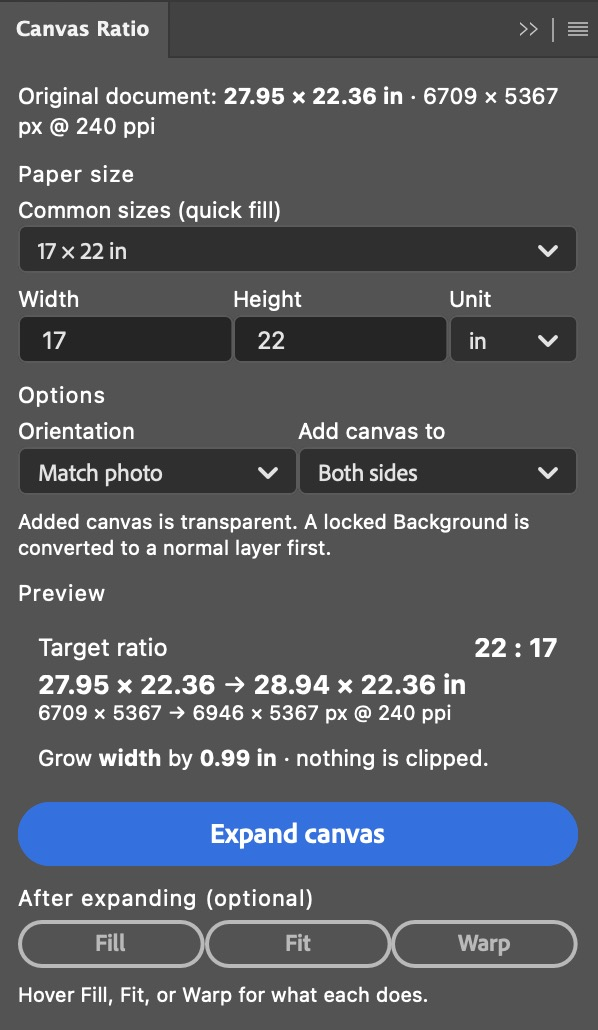
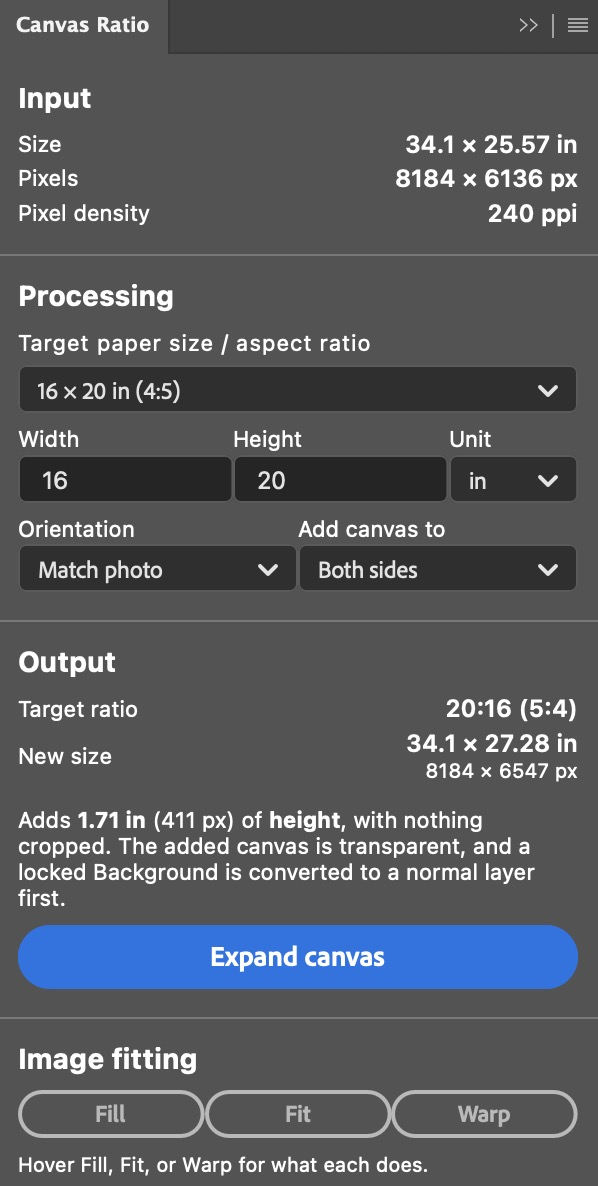
Release 1.0.0: new screenshot, version bump, changelog

diff --git a/CHANGELOG.md b/CHANGELOG.md
@@ -4,6 +4,29 @@ All notable changes to this project are documented here. The format is based on
 [Keep a Changelog](https://keepachangelog.com/en/1.1.0/), and this project
 adheres to [Semantic Versioning](https://semver.org/spec/v2.0.0.html).
 
+## [1.0.0] - 2026-06-14
+
+### Added
+- **Aspect ratio in every preset**, e.g. `16 × 20 in (4:5)`; the A-series
+  shows a `1:x.xx` decimal. The dropdown also renders all sizes in the
+  currently selected unit and rebuilds when the unit changes.
+- **Three-stage layout** with larger, full-width section dividers: **Input**
+  (document size, pixels, pixel density), **Processing** (target size,
+  orientation, anchor), **Output** (preview + Expand), and **Image fitting**
+  (Fill / Fit / Warp).
+- **Clearer preview**: target ratio shown as raw plus reduced and oriented to
+  the chosen orientation (e.g. `20:16 (5:4)`), the grow amount in both the
+  display unit and pixels, and labeled rows instead of crammed text.
+- **Distribution**: install by double-clicking a signed `.ccx` from the
+  GitHub Releases page; `npm run stage` builds a clean runtime-only folder
+  for packaging.
+
+### Changed
+- Editing Width/Height resets the preset dropdown to **Custom…**.
+- "Resolution" relabeled **Pixel density** (it is ppi, not the pixel count).
+- Removed redundant copy (the duplicate current-size row, the standalone
+  transparent-border hint, and several section labels).
+
 ## [0.1.0] - 2026-06-13
 
 ### Added